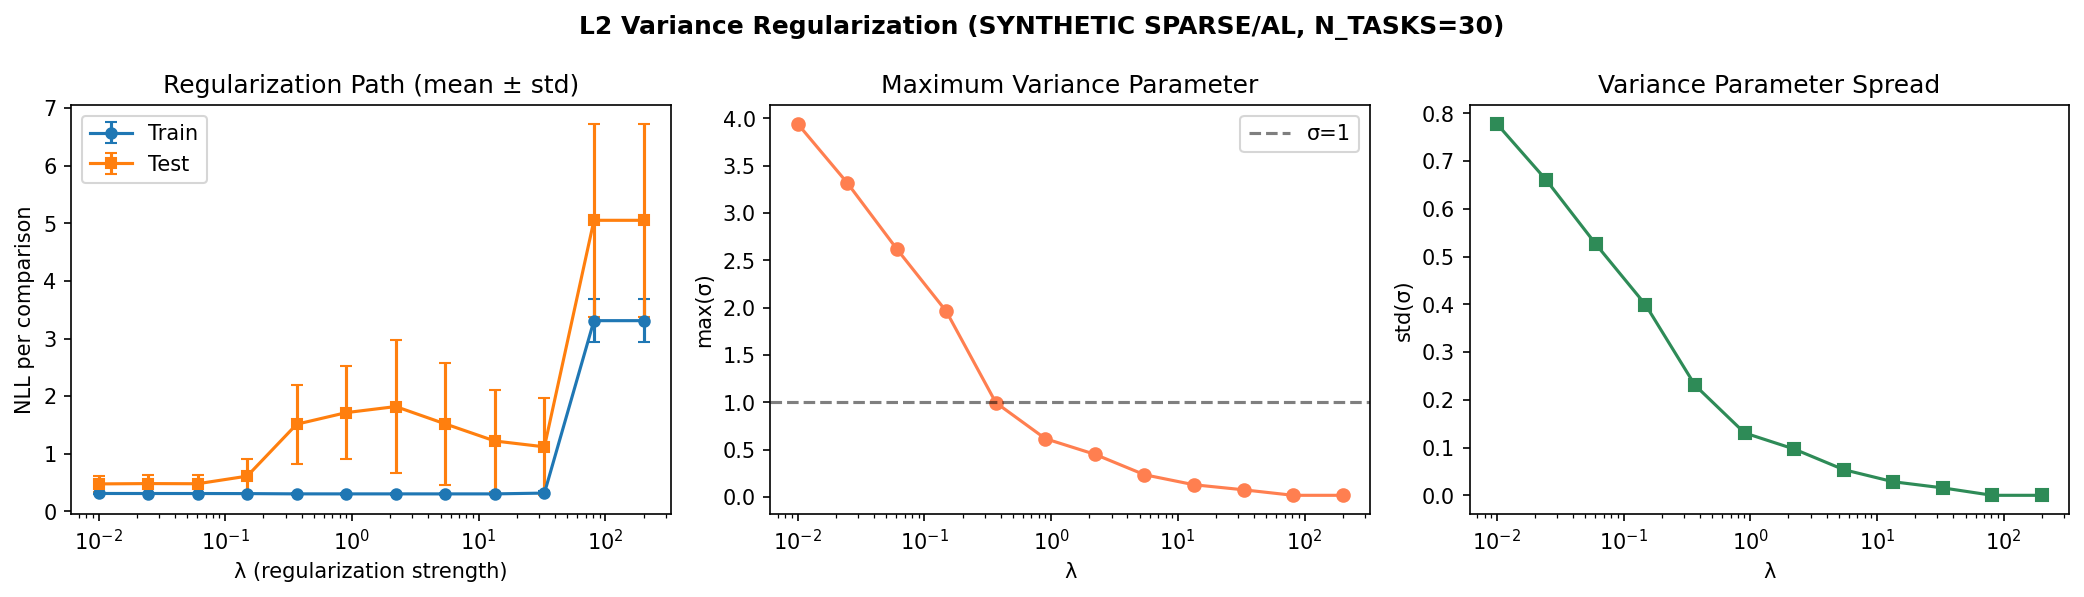
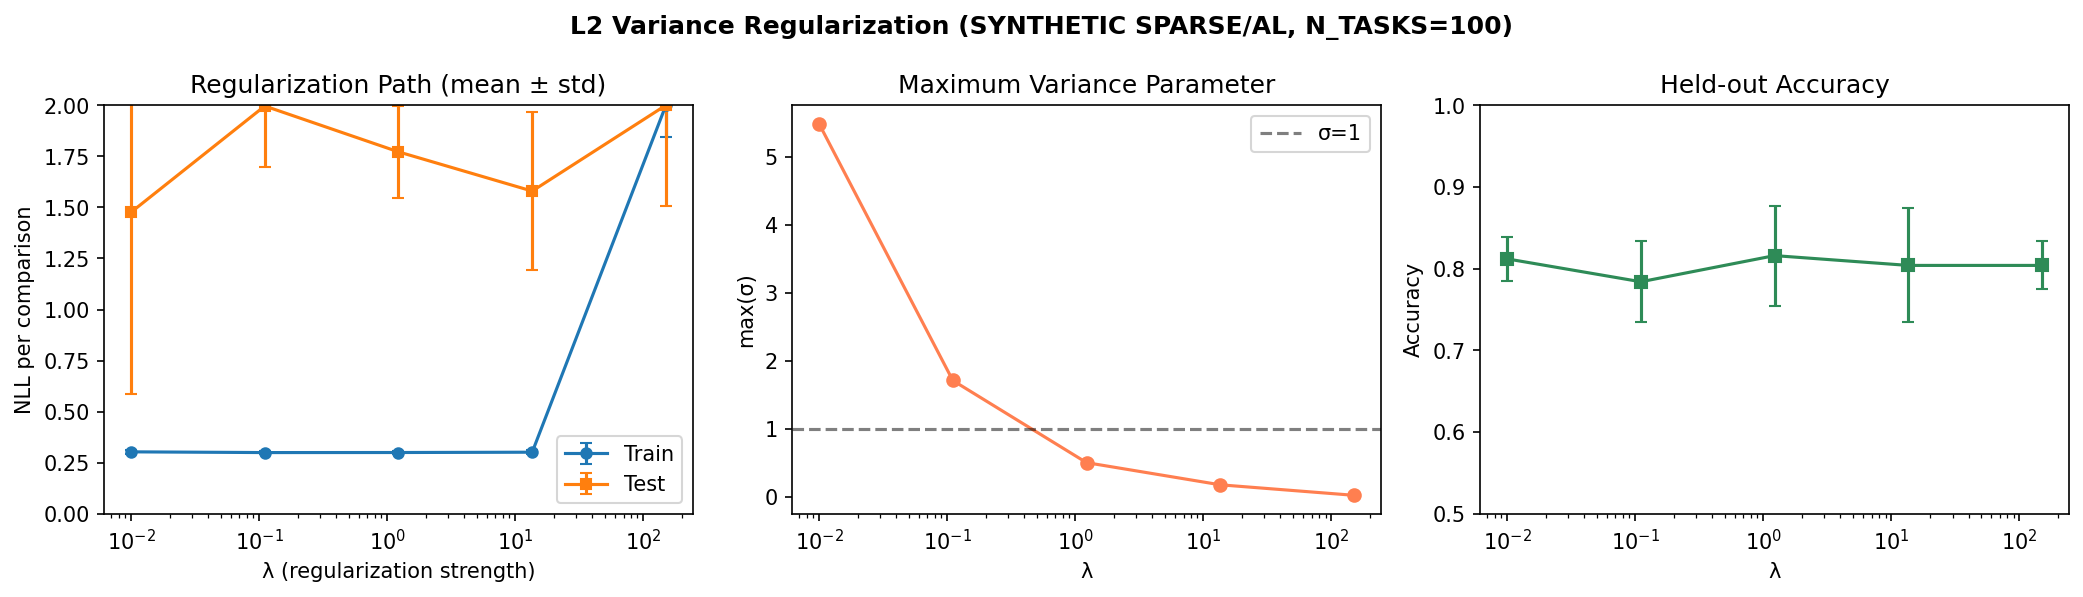
Optimize regularization analysis and improve plots
- Reduce LAMBDAS from 10 to 5 values
- Reduce n_splits from 10 to 5 for faster runs
- Subsample real data to 100 tasks (from 200)
- Replace variance spread panel with held-out accuracy
- Clip NLL at 2.0 to avoid skyrocketing plots
- Update AL params: n_runs=3, max_iterations=20, batch_size=100

diff --git a/thurstonian_analysis/regularization_analysis.py b/thurstonian_analysis/regularization_analysis.py
@@ -29,7 +29,7 @@ from thurstonian_analysis.utils import split_wins
 
 OUTPUT_DIR = Path(__file__).parent / "plots" / "regularization"
 
-LAMBDAS = np.logspace(-2, np.log10(150), 10)
+LAMBDAS = np.logspace(-2, np.log10(150), 5)
 
 
 def make_task(id: str) -> Task:
@@ -93,11 +93,30 @@ class RegularizationResults:
     train_nlls_std: list[float]
     test_nlls_std: list[float]
     sigma_maxs: list[float]
-    sigma_stds: list[float]
+    held_out_accuracies: list[float]
+    held_out_accuracies_std: list[float]
     data_source: str
     n_datasets: int
     n_splits: int
     n_tasks: int
+
+
+def compute_held_out_accuracy(mu: np.ndarray, wins: np.ndarray) -> float:
+    """Compute prediction accuracy on held-out pairs."""
+    n = wins.shape[0]
+    correct = 0
+    total = 0
+    for i in range(n):
+        for j in range(i + 1, n):
+            n_ij = wins[i, j] + wins[j, i]
+            if n_ij == 0:
+                continue
+            pred_i_wins = mu[i] > mu[j]
+            emp_i_wins = wins[i, j] > wins[j, i]
+            if pred_i_wins == emp_i_wins:
+                correct += 1
+            total += 1
+    return correct / total if total > 0 else 1.0
 
 
 def run_regularization_on_wins(
@@ -111,7 +130,7 @@ def run_regularization_on_wins(
     all_train_nlls = {lam: [] for lam in lambdas}
     all_test_nlls = {lam: [] for lam in lambdas}
     all_sigma_maxs = {lam: [] for lam in lambdas}
-    all_sigma_stds = {lam: [] for lam in lambdas}
+    all_held_out_accs = {lam: [] for lam in lambdas}
 
     for split_idx in range(n_splits):
         if verbose:
@@ -134,7 +153,7 @@ def run_regularization_on_wins(
             all_train_nlls[lam].append(train_nll_per_comp)
             all_test_nlls[lam].append(test_nll_per_comp)
             all_sigma_maxs[lam].append(float(result.sigma.max()))
-            all_sigma_stds[lam].append(float(result.sigma.std()))
+            all_held_out_accs[lam].append(compute_held_out_accuracy(result.mu, test_wins))
             if verbose:
                 print(".", end="", flush=True)
         if verbose:
@@ -144,7 +163,7 @@ def run_regularization_on_wins(
         "train_nlls": all_train_nlls,
         "test_nlls": all_test_nlls,
         "sigma_maxs": all_sigma_maxs,
-        "sigma_stds": all_sigma_stds,
+        "held_out_accs": all_held_out_accs,
     }
 
 
@@ -152,7 +171,7 @@ def run_regularization_path_synthetic(
     n_tasks: int = N_TASKS,
     n_comparisons_per_pair: int = 10,
     test_frac: float = 0.2,
-    n_splits: int = 10,
+    n_splits: int = 5,
 ) -> RegularizationResults:
     print(f"Synthetic dense: {n_tasks} tasks, {n_splits} splits, {len(LAMBDAS)} lambdas")
     data_rng = np.random.default_rng(42)
@@ -170,7 +189,8 @@ def run_regularization_path_synthetic(
         train_nlls_std=[np.std(results["train_nlls"][lam]) for lam in LAMBDAS],
         test_nlls_std=[np.std(results["test_nlls"][lam]) for lam in LAMBDAS],
         sigma_maxs=[np.mean(results["sigma_maxs"][lam]) for lam in LAMBDAS],
-        sigma_stds=[np.mean(results["sigma_stds"][lam]) for lam in LAMBDAS],
+        held_out_accuracies=[np.mean(results["held_out_accs"][lam]) for lam in LAMBDAS],
+        held_out_accuracies_std=[np.std(results["held_out_accs"][lam]) for lam in LAMBDAS],
         data_source="synthetic",
         n_datasets=1,
         n_splits=n_splits,
@@ -210,7 +230,7 @@ def run_regularization_path_sparse(
     d: int = 5,
     n_comparisons_per_pair: int = 10,
     test_frac: float = 0.2,
-    n_splits: int = 10,
+    n_splits: int = 5,
 ) -> RegularizationResults:
     """Run regularization analysis on sparse (d-regular graph) synthetic data."""
     print(f"Synthetic sparse: {n_tasks} tasks, d={d}, {n_splits} splits, {len(LAMBDAS)} lambdas")
@@ -231,7 +251,8 @@ def run_regularization_path_sparse(
         train_nlls_std=[np.std(results["train_nlls"][lam]) for lam in LAMBDAS],
         test_nlls_std=[np.std(results["test_nlls"][lam]) for lam in LAMBDAS],
         sigma_maxs=[np.mean(results["sigma_maxs"][lam]) for lam in LAMBDAS],
-        sigma_stds=[np.mean(results["sigma_stds"][lam]) for lam in LAMBDAS],
+        held_out_accuracies=[np.mean(results["held_out_accs"][lam]) for lam in LAMBDAS],
+        held_out_accuracies_std=[np.std(results["held_out_accs"][lam]) for lam in LAMBDAS],
         data_source="sparse",
         n_datasets=1,
         n_splits=n_splits,
@@ -239,11 +260,27 @@ def run_regularization_path_sparse(
     )
 
 
+def subsample_pairwise_data(
+    tasks: list[Task],
+    wins: np.ndarray,
+    n_tasks: int,
+    rng: np.random.Generator,
+) -> tuple[list[Task], np.ndarray]:
+    """Subsample to n_tasks tasks, keeping only comparisons between them."""
+    if len(tasks) <= n_tasks:
+        return tasks, wins
+    indices = rng.choice(len(tasks), size=n_tasks, replace=False)
+    indices = np.sort(indices)
+    subsampled_tasks = [tasks[i] for i in indices]
+    subsampled_wins = wins[np.ix_(indices, indices)]
+    return subsampled_tasks, subsampled_wins
+
+
 def run_regularization_path_real(
     test_frac: float = 0.2,
     n_splits: int = 5,
 ) -> RegularizationResults:
-    print(f"Real data: {n_splits} splits, {len(LAMBDAS)} lambdas")
+    print(f"Real data: {n_splits} splits, {len(LAMBDAS)} lambdas, subsampling to {N_TASKS} tasks")
     datasets = load_all_datasets()
     if not datasets:
         raise ValueError(f"No datasets found in {RESULTS_DIR}")
@@ -251,18 +288,20 @@ def run_regularization_path_real(
     all_train_nlls = {lam: [] for lam in LAMBDAS}
     all_test_nlls = {lam: [] for lam in LAMBDAS}
     all_sigma_maxs = {lam: [] for lam in LAMBDAS}
-    all_sigma_stds = {lam: [] for lam in LAMBDAS}
+    all_held_out_accs = {lam: [] for lam in LAMBDAS}
 
     valid_datasets = [(n, d) for n, d in datasets if d.n_tasks >= N_TASKS]
+    subsample_rng = np.random.default_rng(42)
     for ds_idx, (name, data) in enumerate(valid_datasets):
         print(f"Dataset {ds_idx + 1}/{len(valid_datasets)}: {name}")
-        results = run_regularization_on_wins(data.tasks, data.wins, test_frac, n_splits, LAMBDAS)
+        tasks, wins = subsample_pairwise_data(data.tasks, data.wins, N_TASKS, subsample_rng)
+        results = run_regularization_on_wins(tasks, wins, test_frac, n_splits, LAMBDAS)
 
         for lam in LAMBDAS:
             all_train_nlls[lam].extend(results["train_nlls"][lam])
             all_test_nlls[lam].extend(results["test_nlls"][lam])
             all_sigma_maxs[lam].extend(results["sigma_maxs"][lam])
-            all_sigma_stds[lam].extend(results["sigma_stds"][lam])
+            all_held_out_accs[lam].extend(results["held_out_accs"][lam])
 
     if not all_train_nlls[LAMBDAS[0]]:
         raise ValueError(f"No valid datasets found (need >= {N_TASKS} tasks)")
@@ -276,7 +315,8 @@ def run_regularization_path_real(
         train_nlls_std=[np.std(all_train_nlls[lam]) for lam in LAMBDAS],
         test_nlls_std=[np.std(all_test_nlls[lam]) for lam in LAMBDAS],
         sigma_maxs=[np.mean(all_sigma_maxs[lam]) for lam in LAMBDAS],
-        sigma_stds=[np.mean(all_sigma_stds[lam]) for lam in LAMBDAS],
+        held_out_accuracies=[np.mean(all_held_out_accs[lam]) for lam in LAMBDAS],
+        held_out_accuracies_std=[np.std(all_held_out_accs[lam]) for lam in LAMBDAS],
         data_source="real",
         n_datasets=n_valid_datasets,
         n_splits=n_splits,
@@ -284,14 +324,21 @@ def run_regularization_path_real(
     )
 
 
-def plot_regularization_path(results: RegularizationResults, output_path: Path):
+def plot_regularization_path(results: RegularizationResults, output_path: Path, nll_clip: float = 2.0):
     fig, axes = plt.subplots(1, 3, figsize=(14, 4))
 
-    axes[0].errorbar(results.lambdas, results.train_nlls, yerr=results.train_nlls_std, fmt="o-", label="Train", markersize=5, capsize=3)
-    axes[0].errorbar(results.lambdas, results.test_nlls, yerr=results.test_nlls_std, fmt="s-", label="Test", markersize=5, capsize=3)
+    # Clip NLL values for display
+    train_nlls = np.clip(results.train_nlls, None, nll_clip)
+    test_nlls = np.clip(results.test_nlls, None, nll_clip)
+    train_std = np.clip(results.train_nlls_std, None, nll_clip)
+    test_std = np.clip(results.test_nlls_std, None, nll_clip)
+
+    axes[0].errorbar(results.lambdas, train_nlls, yerr=train_std, fmt="o-", label="Train", markersize=5, capsize=3)
+    axes[0].errorbar(results.lambdas, test_nlls, yerr=test_std, fmt="s-", label="Test", markersize=5, capsize=3)
     axes[0].set_xscale("log")
     axes[0].set_xlabel("λ (regularization strength)")
     axes[0].set_ylabel("NLL per comparison")
+    axes[0].set_ylim(0, nll_clip)
     axes[0].legend()
     axes[0].set_title("Regularization Path (mean ± std)")
 
@@ -302,10 +349,13 @@ def plot_regularization_path(results: RegularizationResults, output_path: Path):
     axes[1].legend()
     axes[1].set_title("Maximum Variance Parameter")
 
-    axes[2].semilogx(results.lambdas, results.sigma_stds, "s-", color="seagreen", markersize=6)
+    axes[2].errorbar(results.lambdas, results.held_out_accuracies, yerr=results.held_out_accuracies_std,
+                     fmt="s-", color="seagreen", markersize=6, capsize=3)
+    axes[2].set_xscale("log")
     axes[2].set_xlabel("λ")
-    axes[2].set_ylabel("std(σ)")
-    axes[2].set_title("Variance Parameter Spread")
+    axes[2].set_ylabel("Accuracy")
+    axes[2].set_ylim(0.5, 1.0)
+    axes[2].set_title("Held-out Accuracy")
 
     if results.data_source == "synthetic":
         title = f"L2 Variance Regularization (SYNTHETIC DENSE, N_TASKS={results.n_tasks})"
@@ -333,11 +383,11 @@ def run_al_with_regularization(
     n_tasks: int = N_TASKS,
     lambdas: list[float] | None = None,
     initial_degree: int = 3,
-    batch_size: int = 5,
-    max_iterations: int = 30,
+    batch_size: int = 100,
+    max_iterations: int = 20,
     n_comparisons_per_pair: int = 3,
     held_out_fraction: float = 0.2,
-    n_runs: int = 5,
+    n_runs: int = 3,
     seed: int = 42,
 ) -> ALRegularizationResults:
     """Run full active learning simulation with different regularization strengths."""
